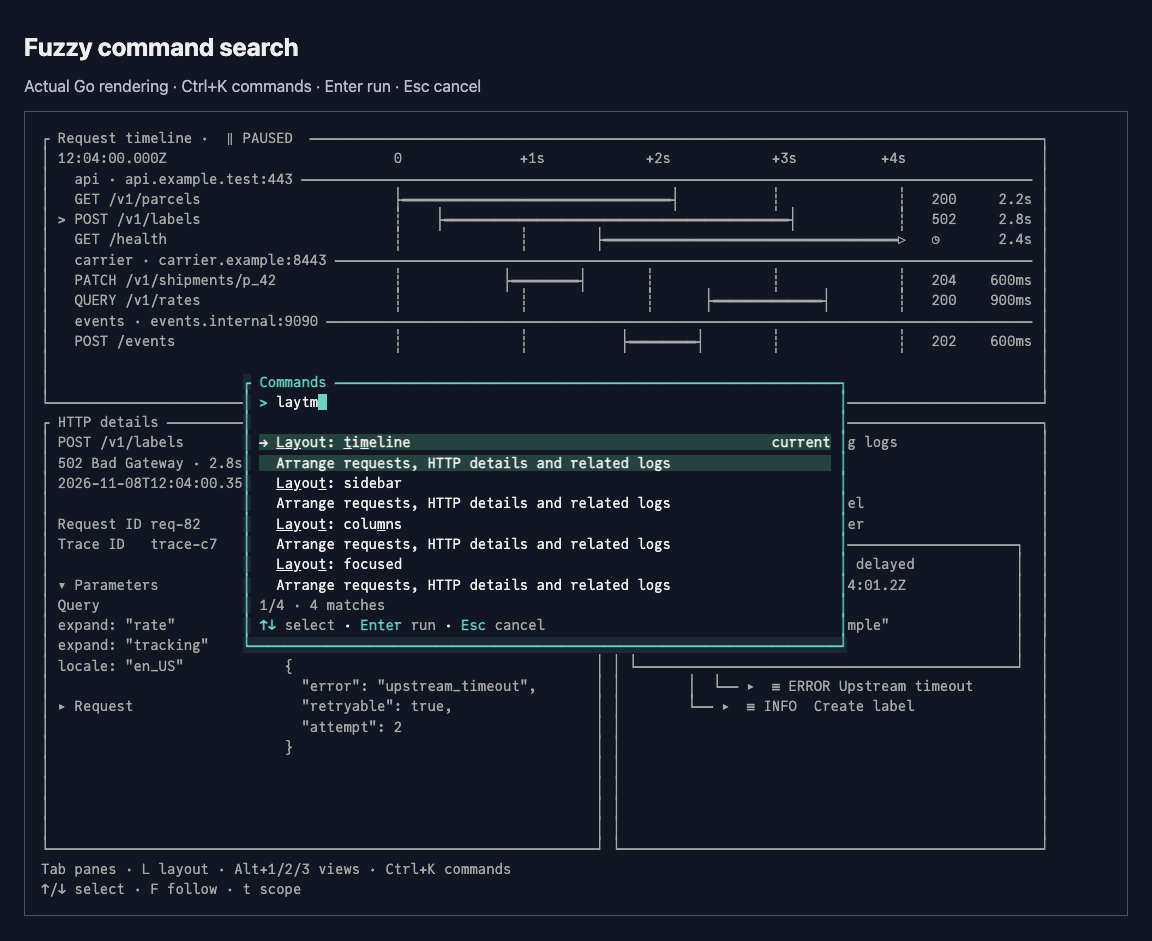
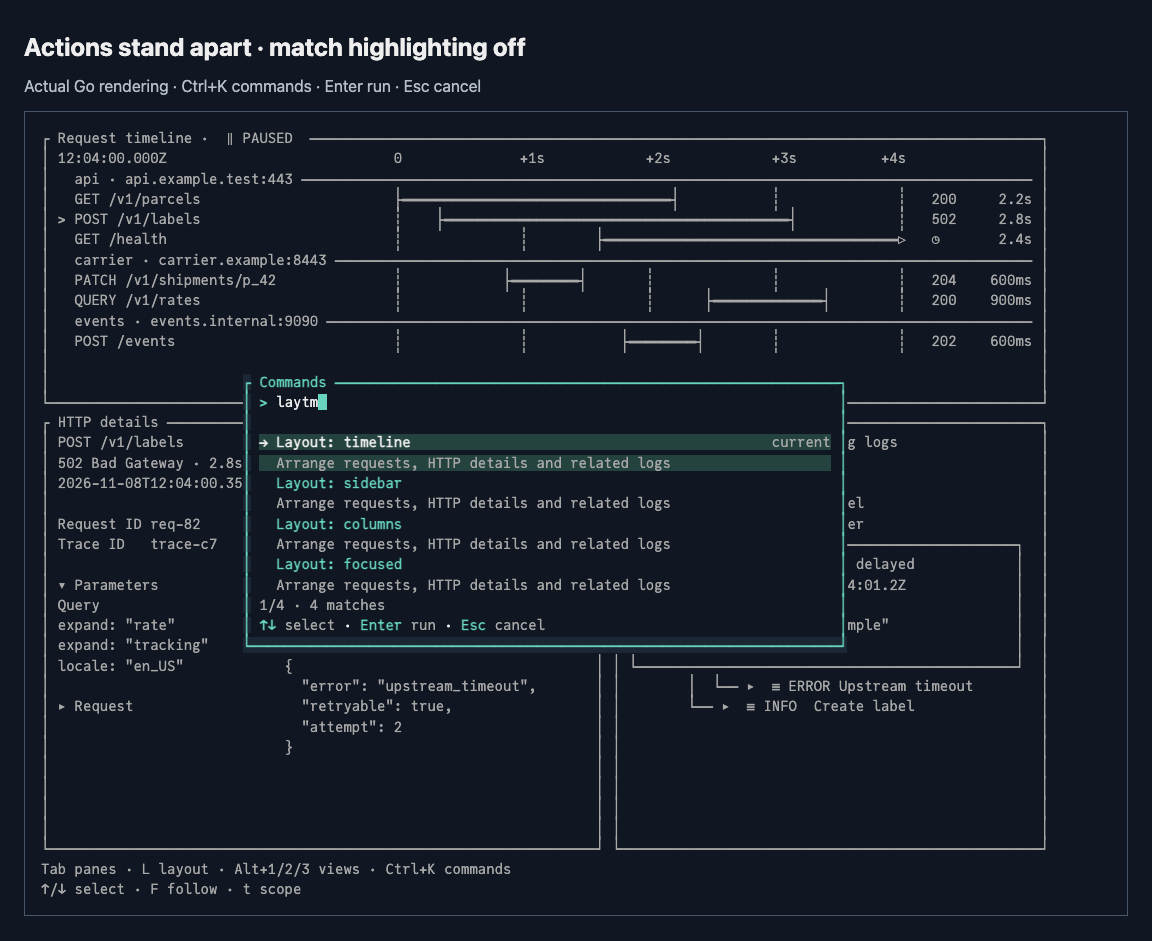
feat(palette): make match emphasis optional
Detected-By: user

diff --git a/collection/command_palette_view.go b/collection/command_palette_view.go
@@ -22,8 +22,9 @@ type commandItem struct {
 func (c commandItem) FilterValue() string { return c.command.Label }
 
 type commandDelegate struct {
-	theme        theme.Theme
-	descriptions bool
+	theme            theme.Theme
+	descriptions     bool
+	highlightMatches bool
 }
 
 func (d *commandDelegate) Height() int {
@@ -56,6 +57,23 @@ func (d *commandDelegate) Render(w io.Writer, model list.Model, index int, item 
 
 	style = style.Width(width)
 
+	actionStyle := style.Width(0).Bold(true)
+	if model.Index() != index && command.DisabledReason == "" && d.theme.Accent != nil {
+		actionStyle = actionStyle.Foreground(d.theme.Accent)
+	}
+
+	if command.DisabledReason != "" {
+		actionStyle = actionStyle.Bold(false)
+		if d.theme.Muted != nil {
+			actionStyle = actionStyle.Foreground(d.theme.Muted)
+		}
+	}
+
+	secondaryStyle := style.Bold(false)
+	if d.theme.Muted != nil {
+		secondaryStyle = secondaryStyle.Foreground(d.theme.Muted)
+	}
+
 	marker := "  "
 	if model.Index() == index {
 		marker = d.theme.Glyph(theme.GlyphRight) + " "
@@ -64,8 +82,8 @@ func (d *commandDelegate) Render(w io.Writer, model list.Model, index int, item 
 	var highlighted strings.Builder
 
 	for i, r := range []rune(label) {
-		runeStyle := style.Width(0)
-		if slices.Contains(entry.matches, i) {
+		runeStyle := actionStyle
+		if d.highlightMatches && slices.Contains(entry.matches, i) {
 			runeStyle = runeStyle.Underline(true)
 		}
 
@@ -97,8 +115,8 @@ func (d *commandDelegate) Render(w io.Writer, model list.Model, index int, item 
 
 	suffixWidth := min(ansi.StringWidth(suffix), width/3)
 	labelWidth := max(1, width-suffixWidth-4)
-	line := style.Width(0).Render(marker) + ansi.Truncate(label, labelWidth, style.Width(0).Render("…"))
-	line += style.Width(0).Render(strings.Repeat(" ", max(0, width-ansi.StringWidth(line)-suffixWidth)) + ansi.Truncate(suffix, suffixWidth, ""))
+	line := style.Width(0).Render(marker) + ansi.Truncate(label, labelWidth, actionStyle.Render("…"))
+	line += secondaryStyle.Width(0).Render(strings.Repeat(" ", max(0, width-ansi.StringWidth(line)-suffixWidth)) + ansi.Truncate(suffix, suffixWidth, ""))
 
 	if d.descriptions {
 		description := command.Description
@@ -106,7 +124,7 @@ func (d *commandDelegate) Render(w io.Writer, model list.Model, index int, item 
 			description = command.DisabledReason
 		}
 
-		line += "\n" + style.Render("  "+ansi.Truncate(text.Inline(description), max(1, width-2), "…"))
+		line += "\n" + secondaryStyle.Render("  "+ansi.Truncate(text.Inline(description), max(1, width-2), "…"))
 	}
 
 	if _, err := fmt.Fprint(w, line); err != nil {

diff --git a/collection/command_emphasis_test.go b/collection/command_emphasis_test.go
@@ -1,0 +1,57 @@
+package collection_test
+
+import (
+	"testing"
+
+	uv "github.com/charmbracelet/ultraviolet"
+	"github.com/charmbracelet/x/ansi"
+	"github.com/lanej/charmed/collection"
+	"github.com/lanej/charmed/layout"
+	"github.com/lanej/charmed/theme"
+)
+
+func TestPaletteMatchEmphasisIsOptionalAndActionRemainsDistinct(t *testing.T) {
+	for _, mode := range []theme.Mode{theme.Dark, theme.Light, theme.Mono} {
+		m, err := collection.NewCommandPalette([]collection.Command{{ID: "timeline", Label: "Layout: timeline", Description: "Arrange observations", Shortcut: "F5"}}, 72, 24, theme.New(mode))
+		if err != nil {
+			t.Fatal(err)
+		}
+
+		m.Open()
+		m.SetQuery("laytm")
+
+		if m.MatchHighlighting() {
+			t.Fatal("highlighting enabled by default")
+		}
+
+		for _, enabled := range []bool{false, true, false} {
+			m.SetMatchHighlighting(enabled)
+			m.Resize(layout.Size{Width: 72, Height: 24})
+
+			underlined := false
+			action, description, shortcut := false, false, false
+
+			for _, line := range uv.NewStyledString(m.Results.View()).Lines(ansi.GraphemeWidth) {
+				for _, cell := range line {
+					underlined = underlined || cell.Style.Underline != uv.UnderlineNone
+					switch cell.Content {
+					case "L":
+						action = cell.Style.Attrs&uv.AttrBold != 0
+					case "A":
+						description = cell.Style.Attrs&uv.AttrBold == 0
+					case "F":
+						shortcut = cell.Style.Attrs&uv.AttrBold == 0
+					}
+				}
+			}
+
+			if underlined != enabled || !action || !description || !shortcut {
+				t.Fatal("match or action emphasis incorrect", mode, enabled)
+			}
+
+			if m.Search.Value() != "laytm" || m.SelectedID() != "timeline" || len(m.Results.Items()) != 1 {
+				t.Fatal("display option changed search or selection")
+			}
+		}
+	}
+}

diff --git a/workbench/generate.go b/workbench/generate.go
@@ -81,13 +81,14 @@ func Generate(out string) error {
 			}
 		}
 		if d.ID == "collection/command-palette" || d.ID == "pattern/log-inspector" {
-			for _, sample := range []struct{ name, query string }{{"Commands", ""}, {"Commands filtered", "laytm"}, {"Commands unavailable", "Scope: trace"}, {"Commands empty", "zzzzzz"}} {
+			for _, sample := range []struct{ name, query string }{{"Commands", ""}, {"Commands filtered", "laytm"}, {"Commands highlighted", "laytm"}, {"Commands unavailable", "Scope: trace"}, {"Commands empty", "zzzzzz"}} {
 				variants = append(variants, struct {
 					name   string
 					change func(*story.Config)
 				}{name: sample.name, change: func(c *story.Config) {
 					c.CommandPalette = true
 					c.Value = sample.query
+					c.HighlightMatches = sample.name == "Commands highlighted"
 
 					c.CommandQuery = sample.query
 					if d.ID == "pattern/log-inspector" && sample.name == "Commands unavailable" {

diff --git a/cmd/workbench/main.go b/cmd/workbench/main.go
@@ -65,6 +65,7 @@ func command() *cobra.Command {
 		cmd.Flags().StringVar(&c.InspectorLayout, "log-layout", "", "Inspector layout: sidebar, timeline, columns or focused")
 		cmd.Flags().StringSliceVar(&c.TimelineGroups, "timeline-group-by", nil, "Group timeline by service, host, port or endpoint")
 		cmd.Flags().BoolVar(&c.Timeline, "timeline", false, "Show HTTP requests on a shared time axis")
+		cmd.Flags().BoolVar(&c.HighlightMatches, "highlight-matches", false, "Underline command search matches")
 		cmd.Flags().StringVar(&c.CommandQuery, "command-query", "", "Initial command palette search")
 		cmd.Flags().BoolVar(&c.CommandPalette, "command-palette", false, "Open the floating command palette")
 		cmd.Flags().BoolVar(&c.RawBody, "raw-body", false, "Show captured HTTP body formatting")

diff --git a/collection/command_palette.go b/collection/command_palette.go
@@ -76,6 +76,10 @@ func NewCommandPalette(commands []Command, width, height int, t theme.Theme) (*C
 	return m, nil
 }
 
+// SetMatchHighlighting changes emphasis without changing fuzzy matching or selection.
+func (m *CommandPalette) SetMatchHighlighting(enabled bool) { m.delegate.highlightMatches = enabled }
+func (m *CommandPalette) MatchHighlighting() bool           { return m.delegate.highlightMatches }
+
 func (m *CommandPalette) IsOpen() bool { return m.opened }
 func (m *CommandPalette) SelectedID() string {
 	if item, ok := m.Results.SelectedItem().(commandItem); ok {

diff --git a/story/registry.go b/story/registry.go
@@ -49,6 +49,7 @@ type Config struct {
 	InspectorLayout    string     `json:"inspectorLayout"`
 	TimelineGroups     []string   `json:"timelineGroups"`
 	Timeline           bool       `json:"timeline"`
+	HighlightMatches   bool       `json:"highlightMatches"`
 	CommandQuery       string     `json:"commandQuery"`
 	CommandPalette     bool       `json:"commandPalette"`
 	RawBody            bool       `json:"rawBody"`

diff --git a/story/logs.go b/story/logs.go
@@ -271,6 +271,7 @@ func logInspectorStory(e Environment) (runtime.Scene, error) {
 	}
 
 	if e.Config.CommandPalette {
+		m.Palette.SetMatchHighlighting(e.Config.HighlightMatches)
 		m.OpenCommands()
 		m.Palette.SetQuery(e.Config.CommandQuery)
 	}

diff --git a/story/commands.go b/story/commands.go
@@ -38,6 +38,7 @@ func commandPaletteStory(e Environment) (runtime.Scene, error) {
 		return nil, err
 	}
 
+	m.SetMatchHighlighting(e.Config.HighlightMatches)
 	m.Open()
 	m.SetQuery(e.Config.Value)
 

diff --git a/docs/command-palette.md b/docs/command-palette.md
@@ -4,9 +4,9 @@
 
 `Open()` resets search and focuses the input; forward its returned Bubble Tea command. `Update()` handles the configurable `Keys.Open`, `Keys.Close` and `Keys.Execute` bindings, defaulting to Ctrl+K, Esc and Enter. Activation closes and blurs the palette before returning its message; cancellation emits no action. Route keyboard and paste messages exclusively to an open palette. Keep processing application observations and command messages normally. The palette does not own application focus; retain the previous pane until an action explicitly changes it.
 
-`Search` and `Results` expose native text-input and list capabilities. Resize preserves their styles, key maps and custom input prompt. The wrapper owns list items, filtering, selection reconciliation and geometry; `SetCommands` preserves the selected command ID if it still matches, otherwise selects the first result. Search changes select the best fuzzy match. Matching label characters are underlined; keyword-only matches need not underline the label. Navigation defaults to arrows, Page Up/Down and Home/End, leaving printable letters available for typing. No command execution occurs during rendering or search.
+`Search` and `Results` expose native text-input and list capabilities. Resize preserves their styles, key maps and custom input prompt. The wrapper owns list items, filtering, selection reconciliation and geometry; `SetCommands` preserves the selected command ID if it still matches, otherwise selects the first result. Search changes select the best fuzzy match. Match highlighting is off by default; call `SetMatchHighlighting(true)` to underline matching label characters without changing results or selection. `MatchHighlighting()` reports the setting; keyword-only matches need not underline the label. Navigation defaults to arrows, Page Up/Down and Home/End, leaving printable letters available for typing. No command execution occurs during rendering or search.
 
-The panel is capped at 72 columns and eight visible results. Descriptions disappear in narrow or short allocations; the selected disabled reason remains in the status line. Very small allocations clip gracefully, preserving the search line before lower content. `layout.CenterOverlay` composes the panel at the center of the actual allocation using terminal-cell geometry. The foreground is opaque; dimming strips background styling and applies the semantic dim foreground without altering background text. Set `DimBackdrop = false` to retain background styling. Monochrome retains a visible focused boundary and selection cue.
+Action labels use stronger weight and color than descriptions, current-state text and shortcut hints; selection keeps its full row fill. Disabled actions remain muted. The panel is capped at 72 columns and eight visible results. Descriptions disappear in narrow or short allocations; the selected disabled reason remains in the status line. Very small allocations clip gracefully, preserving the search line before lower content. `layout.CenterOverlay` composes the panel at the center of the actual allocation using terminal-cell geometry. The foreground is opaque; dimming strips background styling and applies the semantic dim foreground without altering background text. Set `DimBackdrop = false` to retain background styling. Monochrome retains a visible focused boundary and selection cue.
 
 `pattern.LogInspector.Palette` exposes the same molecule. `OpenCommands()` loads current inspector commands and returns its focus command. The inspector routes keyboard and paste input to the open palette, retains pane focus on dismissal, and keeps ingestion and correlation active. Availability is refreshed when correlated observations change and before accepting a command. Commands use current state rather than trusting an earlier enabled result. Inspector commands cover layouts, focus, follow/pause, request/trace scope, raw/pretty body display, URL formatting and HTTP section folds. URL format commands replace a custom formatter deliberately. Global application exit bindings can still take precedence over the palette.
 
